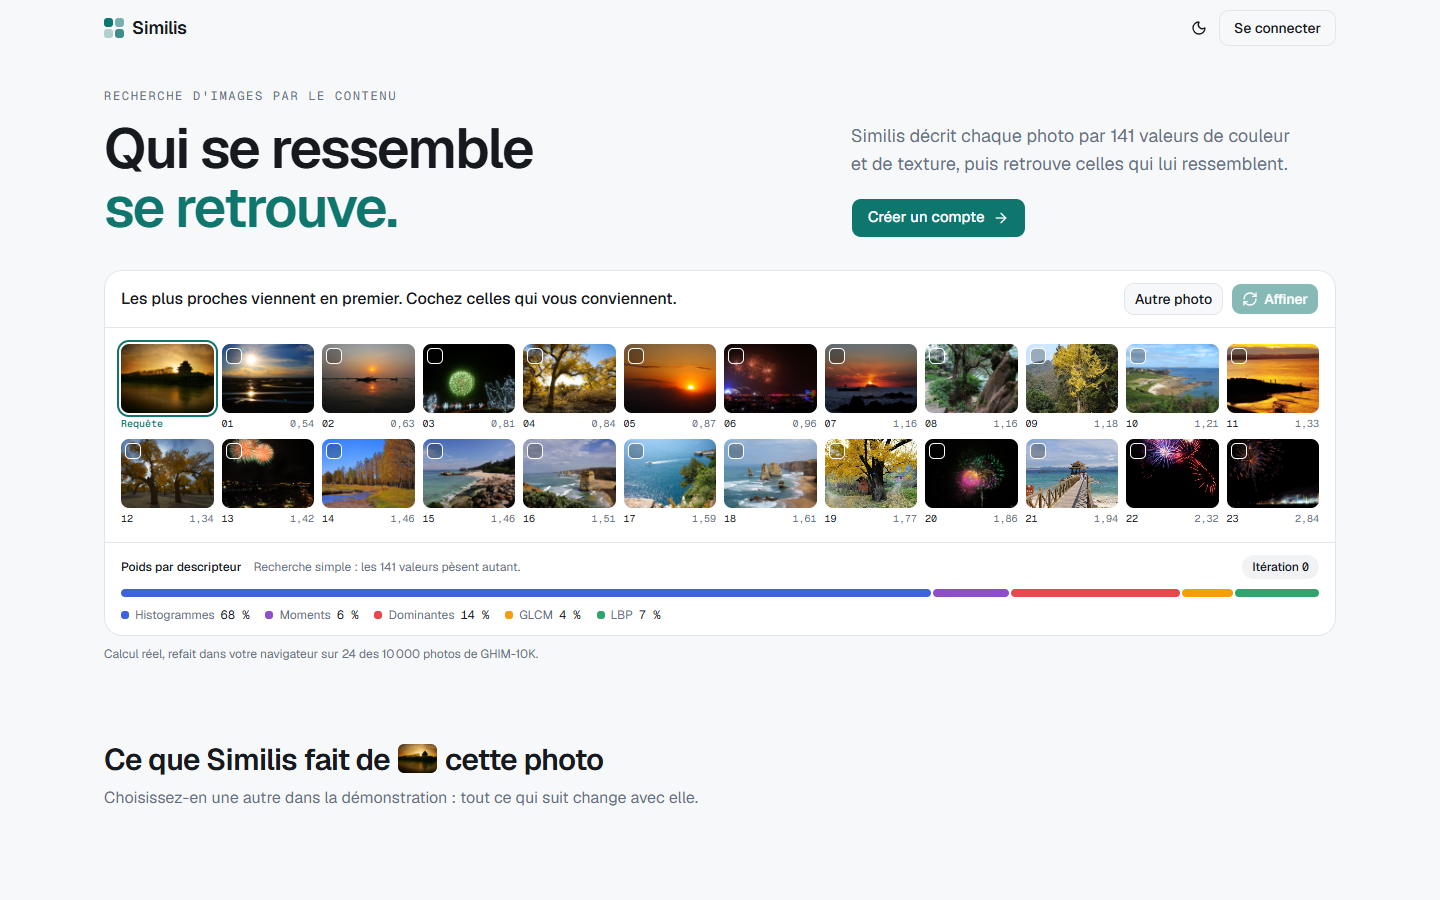
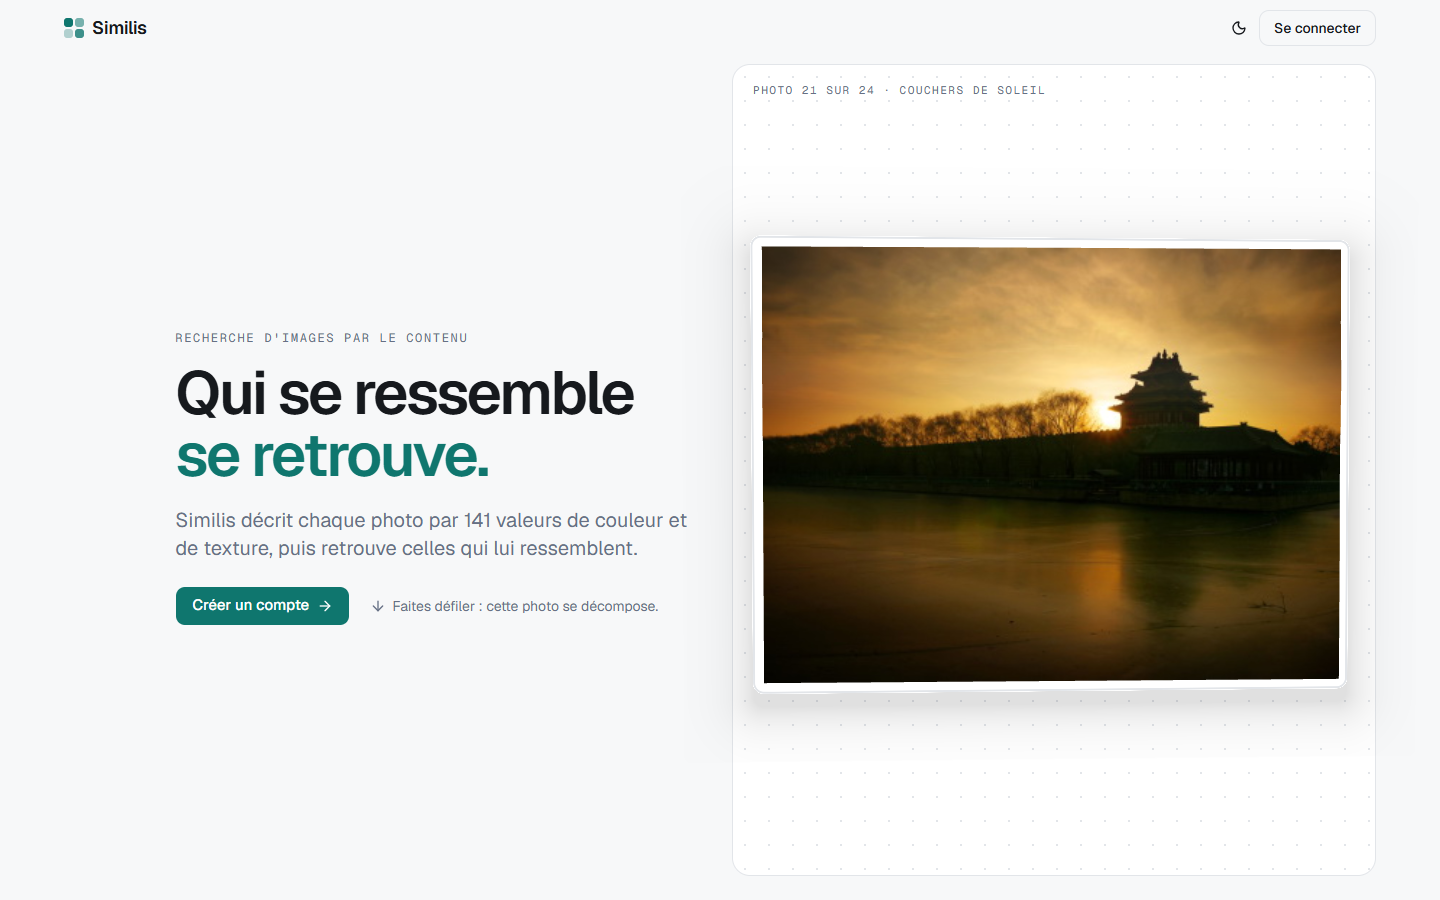
docs: update the landing page screenshot in the README

diff --git a/README.md b/README.md
@@ -1,6 +1,6 @@
 # Similis
 
-![Landing page with the live retrieval demo](screenshots/accueil.png)
+![Landing page: the query photo that the scroll breaks down into its descriptors](screenshots/accueil.png)
 
 Similis is a photo gallery with content-based image retrieval (CBIR). You upload photos and sort them into nested categories. Each photo is described by a 141-value color and texture vector. You then search for similar images across your gallery and the GHIM-10K dataset, and refine the results with **Feature Relevance Estimation (FRE)** relevance feedback.
 
